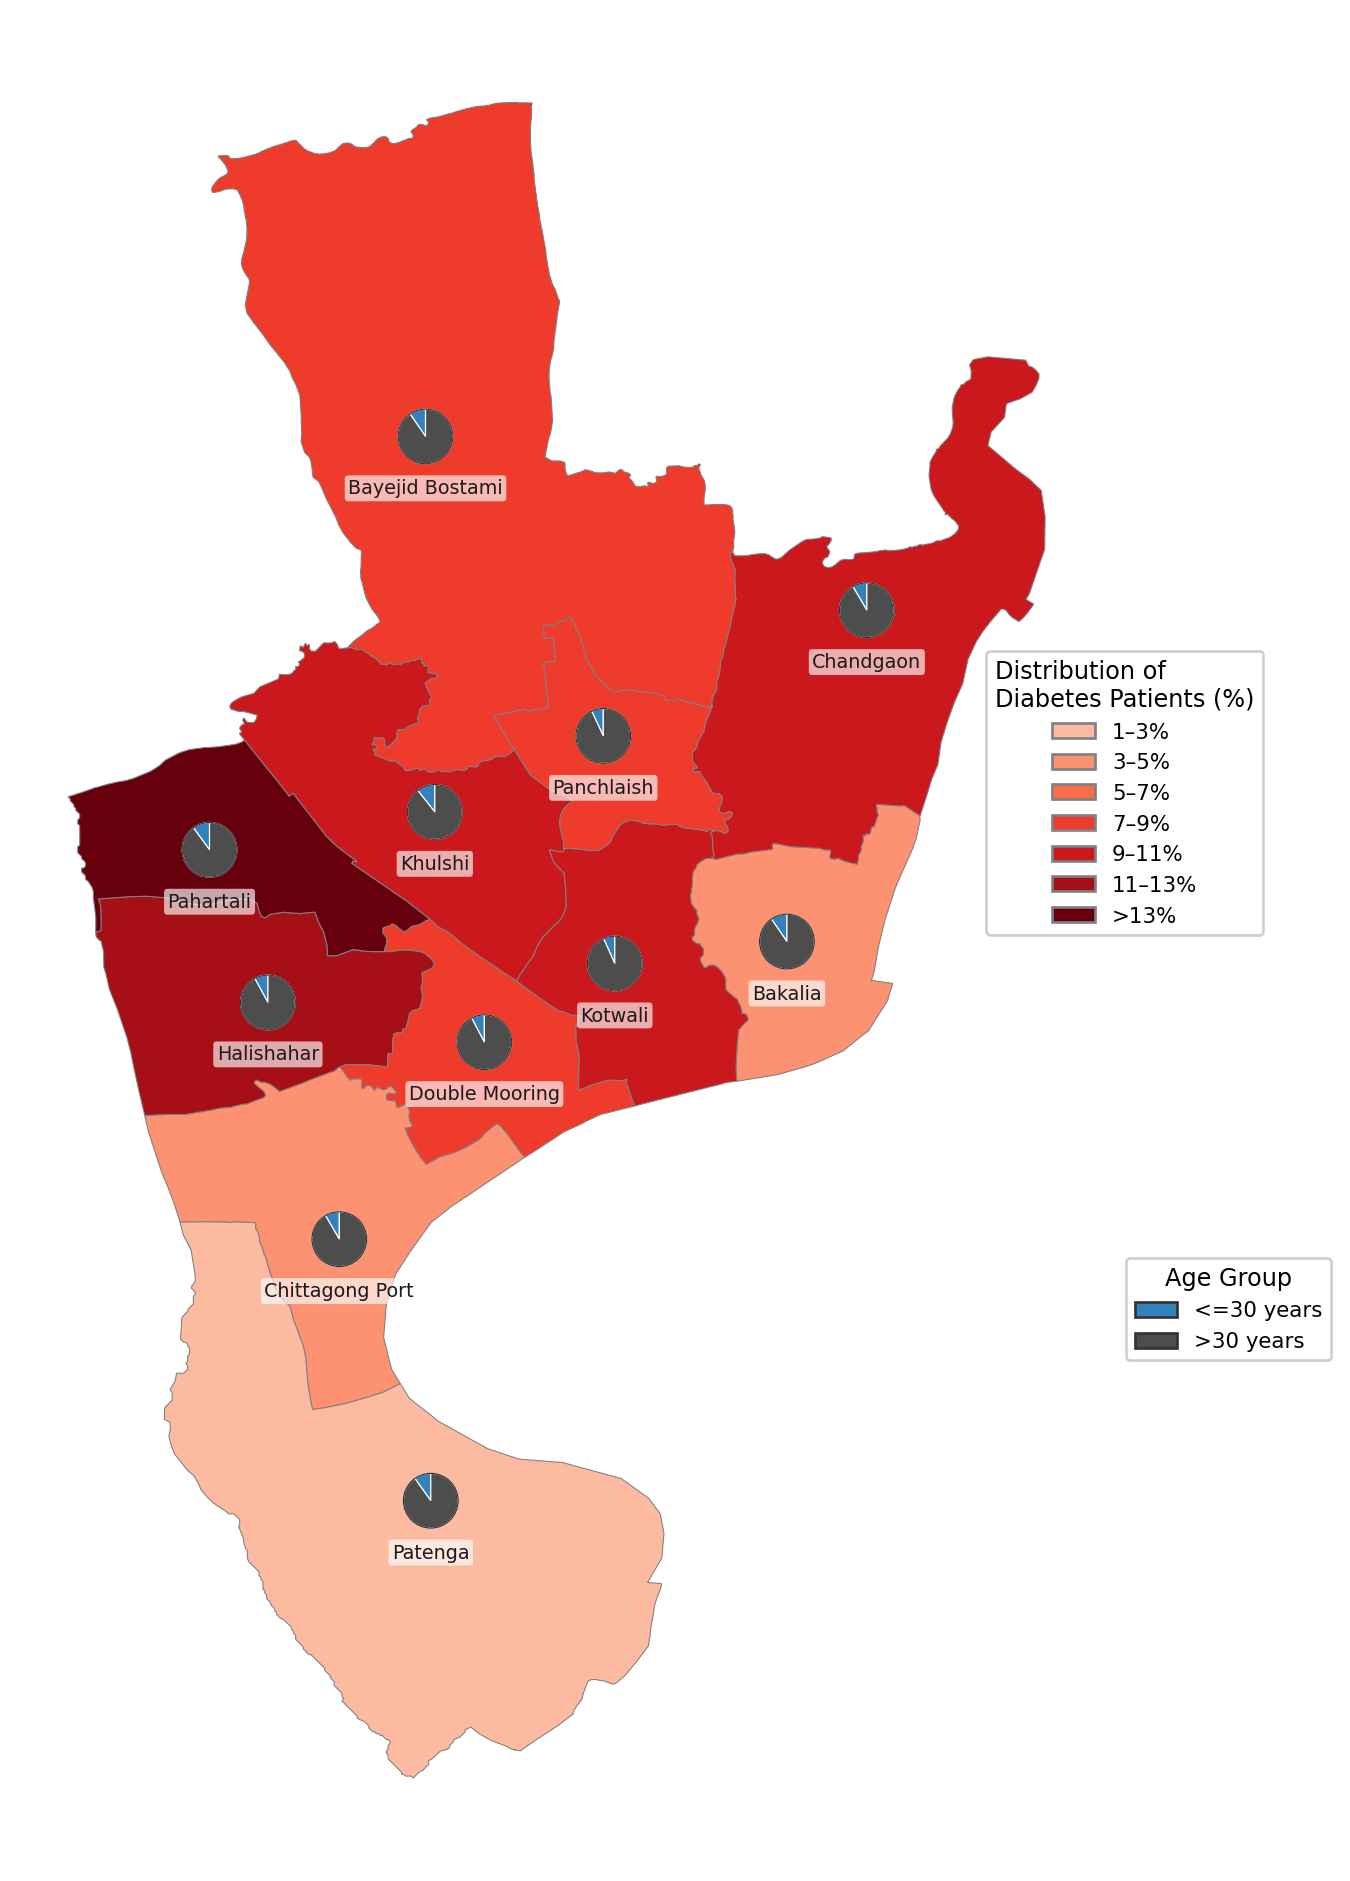
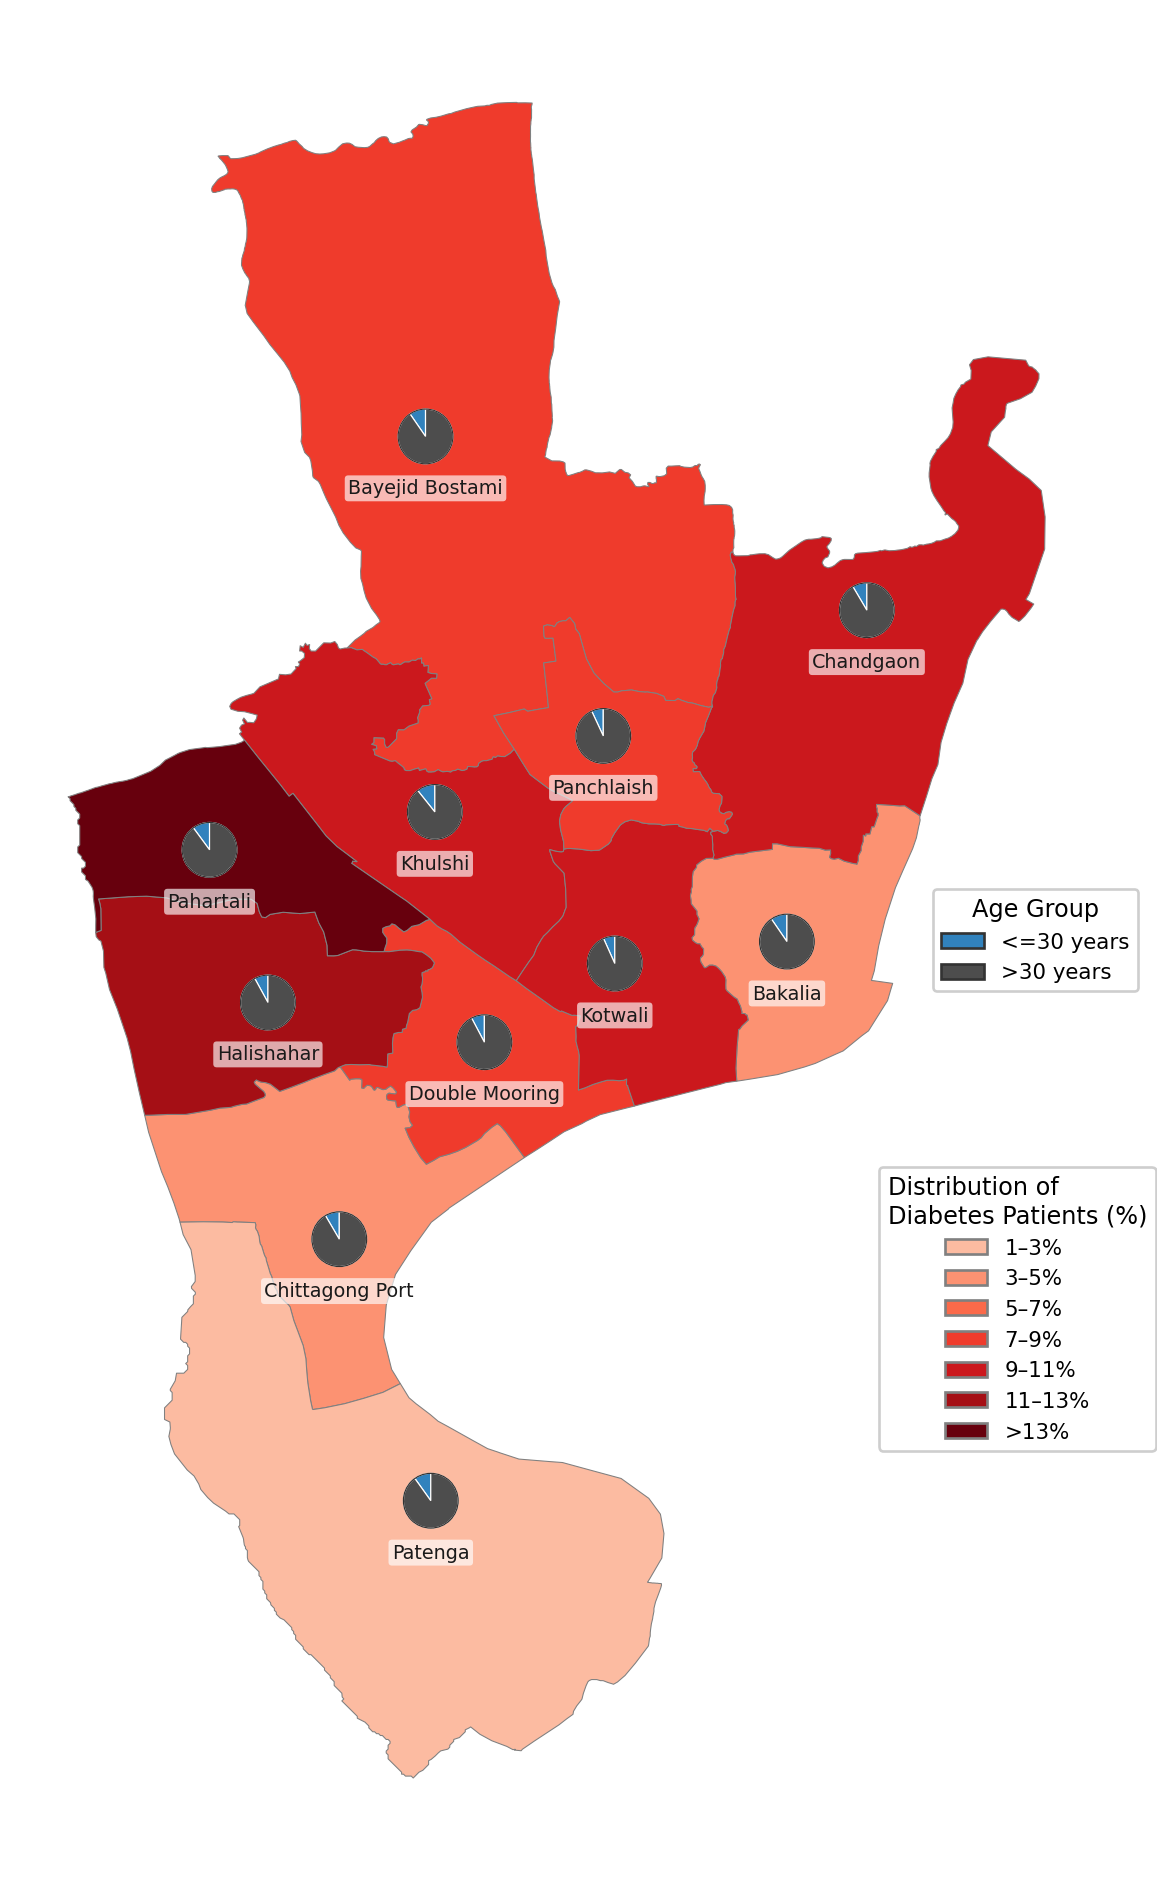
Fixed CC

Changed region(s): [[0.0311, 0.0308, 0.9957, 0.9559], [0.7468, 0.6167, 1.0, 0.7709]]

diff --git a/docs/process/City-Copr-Map.html b/docs/process/City-Copr-Map.html
@@ -407,7 +407,7 @@ pre > code.sourceCode > span > a:first-child::before { text-decoration: underlin
 <li><code>&gt;13%</code></li>
 </ul>
 <p>A custom red color palette is used for the choropleth map. Unlike very pale choropleth palettes, the first class begins with a visibly darker red shade so that even low-percentage areas remain clearly visible on the map.</p>
-<div id="e595d704" class="cell" data-execution_count="1">
+<div id="cdaf23e4" class="cell" data-execution_count="1">
 <details class="code-fold">
 <summary>Show Code</summary>
 <div class="code-copy-outer-scaffold"><div class="sourceCode cell-code" id="cb1"><pre class="sourceCode python code-with-copy"><code class="sourceCode python"><span id="cb1-1"><a href="#cb1-1" aria-hidden="true" tabindex="-1"></a><span class="co"># ============================</span></span>
@@ -767,7 +767,7 @@ pre > code.sourceCode > span > a:first-child::before { text-decoration: underlin
 <li>Overlay pie-chart layer: age-group distribution by thana.</li>
 </ol>
 <p>The pie charts are placed at representative points inside the thana polygons. The <code>&lt;=30 years</code> group is shown in blue, while the <code>&gt;30 years</code> group is shown in dark gray. These colors are intentionally distinct from the red choropleth background.</p>
-<div id="ae68e9ee" class="cell" data-execution_count="2">
+<div id="f26acd4b" class="cell" data-execution_count="2">
 <details class="code-fold">
 <summary>Show Code</summary>
 <div class="code-copy-outer-scaffold"><div class="sourceCode cell-code" id="cb2"><pre class="sourceCode python code-with-copy"><code class="sourceCode python"><span id="cb2-1"><a href="#cb2-1" aria-hidden="true" tabindex="-1"></a><span class="co"># ============================</span></span>
@@ -1247,7 +1247,7 @@ pre > code.sourceCode > span > a:first-child::before { text-decoration: underlin
 <span id="cb2-475"><a href="#cb2-475" aria-hidden="true" tabindex="-1"></a>    handles<span class="op">=</span>diabetes_legend_handles,</span>
 <span id="cb2-476"><a href="#cb2-476" aria-hidden="true" tabindex="-1"></a>    title<span class="op">=</span><span class="st">"Distribution of</span><span class="ch">\n</span><span class="st">Diabetes Patients (%)"</span>,</span>
 <span id="cb2-477"><a href="#cb2-477" aria-hidden="true" tabindex="-1"></a>    loc<span class="op">=</span><span class="st">"center left"</span>,</span>
-<span id="cb2-478"><a href="#cb2-478" aria-hidden="true" tabindex="-1"></a>    bbox_to_anchor<span class="op">=</span>(<span class="fl">0.9</span>, <span class="fl">0.58</span>),</span>
+<span id="cb2-478"><a href="#cb2-478" aria-hidden="true" tabindex="-1"></a>    bbox_to_anchor<span class="op">=</span>(<span class="fl">0.8</span>, <span class="fl">0.3</span>),</span>
 <span id="cb2-479"><a href="#cb2-479" aria-hidden="true" tabindex="-1"></a>    frameon<span class="op">=</span><span class="va">True</span>,</span>
 <span id="cb2-480"><a href="#cb2-480" aria-hidden="true" tabindex="-1"></a>    fontsize<span class="op">=</span><span class="dv">8</span>,</span>
 <span id="cb2-481"><a href="#cb2-481" aria-hidden="true" tabindex="-1"></a>    title_fontsize<span class="op">=</span><span class="dv">9</span>,</span>
@@ -1281,7 +1281,7 @@ pre > code.sourceCode > span > a:first-child::before { text-decoration: underlin
 <span id="cb2-509"><a href="#cb2-509" aria-hidden="true" tabindex="-1"></a>    handles<span class="op">=</span>age_legend_handles,</span>
 <span id="cb2-510"><a href="#cb2-510" aria-hidden="true" tabindex="-1"></a>    title<span class="op">=</span><span class="st">"Age Group"</span>,</span>
 <span id="cb2-511"><a href="#cb2-511" aria-hidden="true" tabindex="-1"></a>    loc<span class="op">=</span><span class="st">"center left"</span>,</span>
-<span id="cb2-512"><a href="#cb2-512" aria-hidden="true" tabindex="-1"></a>    bbox_to_anchor<span class="op">=</span>(<span class="fl">1.03</span>, <span class="fl">0.30</span>),</span>
+<span id="cb2-512"><a href="#cb2-512" aria-hidden="true" tabindex="-1"></a>    bbox_to_anchor<span class="op">=</span>(<span class="fl">0.85</span>, <span class="fl">0.5</span>),</span>
 <span id="cb2-513"><a href="#cb2-513" aria-hidden="true" tabindex="-1"></a>    frameon<span class="op">=</span><span class="va">True</span>,</span>
 <span id="cb2-514"><a href="#cb2-514" aria-hidden="true" tabindex="-1"></a>    fontsize<span class="op">=</span><span class="dv">8</span>,</span>
 <span id="cb2-515"><a href="#cb2-515" aria-hidden="true" tabindex="-1"></a>    title_fontsize<span class="op">=</span><span class="dv">9</span>,</span>
@@ -1305,7 +1305,7 @@ pre > code.sourceCode > span > a:first-child::before { text-decoration: underlin
 <div class="cell-output cell-output-display">
 <div>
 <figure class="figure">
-<p><img src="City-Copr-Map_files/figure-html/cell-3-output-1.png" width="675" height="941" class="figure-img"></p>
+<p><img src="City-Copr-Map_files/figure-html/cell-3-output-1.png" width="579" height="941" class="figure-img"></p>
 </figure>
 </div>
 </div>
@@ -2662,7 +2662,7 @@ pre > code.sourceCode > span > a:first-child::before { text-decoration: underlin
 <span id="cb3-873"><a href="#cb3-873" aria-hidden="true" tabindex="-1"></a>    handles<span class="op">=</span>diabetes_legend_handles,</span>
 <span id="cb3-874"><a href="#cb3-874" aria-hidden="true" tabindex="-1"></a>    title<span class="op">=</span><span class="st">"Distribution of</span><span class="ch">\n</span><span class="st">Diabetes Patients (%)"</span>,</span>
 <span id="cb3-875"><a href="#cb3-875" aria-hidden="true" tabindex="-1"></a>    loc<span class="op">=</span><span class="st">"center left"</span>,</span>
-<span id="cb3-876"><a href="#cb3-876" aria-hidden="true" tabindex="-1"></a>    bbox_to_anchor<span class="op">=</span>(<span class="fl">0.9</span>, <span class="fl">0.58</span>),</span>
+<span id="cb3-876"><a href="#cb3-876" aria-hidden="true" tabindex="-1"></a>    bbox_to_anchor<span class="op">=</span>(<span class="fl">0.8</span>, <span class="fl">0.3</span>),</span>
 <span id="cb3-877"><a href="#cb3-877" aria-hidden="true" tabindex="-1"></a>    frameon<span class="op">=</span><span class="va">True</span>,</span>
 <span id="cb3-878"><a href="#cb3-878" aria-hidden="true" tabindex="-1"></a>    fontsize<span class="op">=</span><span class="dv">8</span>,</span>
 <span id="cb3-879"><a href="#cb3-879" aria-hidden="true" tabindex="-1"></a>    title_fontsize<span class="op">=</span><span class="dv">9</span>,</span>
@@ -2696,7 +2696,7 @@ pre > code.sourceCode > span > a:first-child::before { text-decoration: underlin
 <span id="cb3-907"><a href="#cb3-907" aria-hidden="true" tabindex="-1"></a>    handles<span class="op">=</span>age_legend_handles,</span>
 <span id="cb3-908"><a href="#cb3-908" aria-hidden="true" tabindex="-1"></a>    title<span class="op">=</span><span class="st">"Age Group"</span>,</span>
 <span id="cb3-909"><a href="#cb3-909" aria-hidden="true" tabindex="-1"></a>    loc<span class="op">=</span><span class="st">"center left"</span>,</span>
-<span id="cb3-910"><a href="#cb3-910" aria-hidden="true" tabindex="-1"></a>    bbox_to_anchor<span class="op">=</span>(<span class="fl">1.03</span>, <span class="fl">0.30</span>),</span>
+<span id="cb3-910"><a href="#cb3-910" aria-hidden="true" tabindex="-1"></a>    bbox_to_anchor<span class="op">=</span>(<span class="fl">0.85</span>, <span class="fl">0.5</span>),</span>
 <span id="cb3-911"><a href="#cb3-911" aria-hidden="true" tabindex="-1"></a>    frameon<span class="op">=</span><span class="va">True</span>,</span>
 <span id="cb3-912"><a href="#cb3-912" aria-hidden="true" tabindex="-1"></a>    fontsize<span class="op">=</span><span class="dv">8</span>,</span>
 <span id="cb3-913"><a href="#cb3-913" aria-hidden="true" tabindex="-1"></a>    title_fontsize<span class="op">=</span><span class="dv">9</span>,</span>